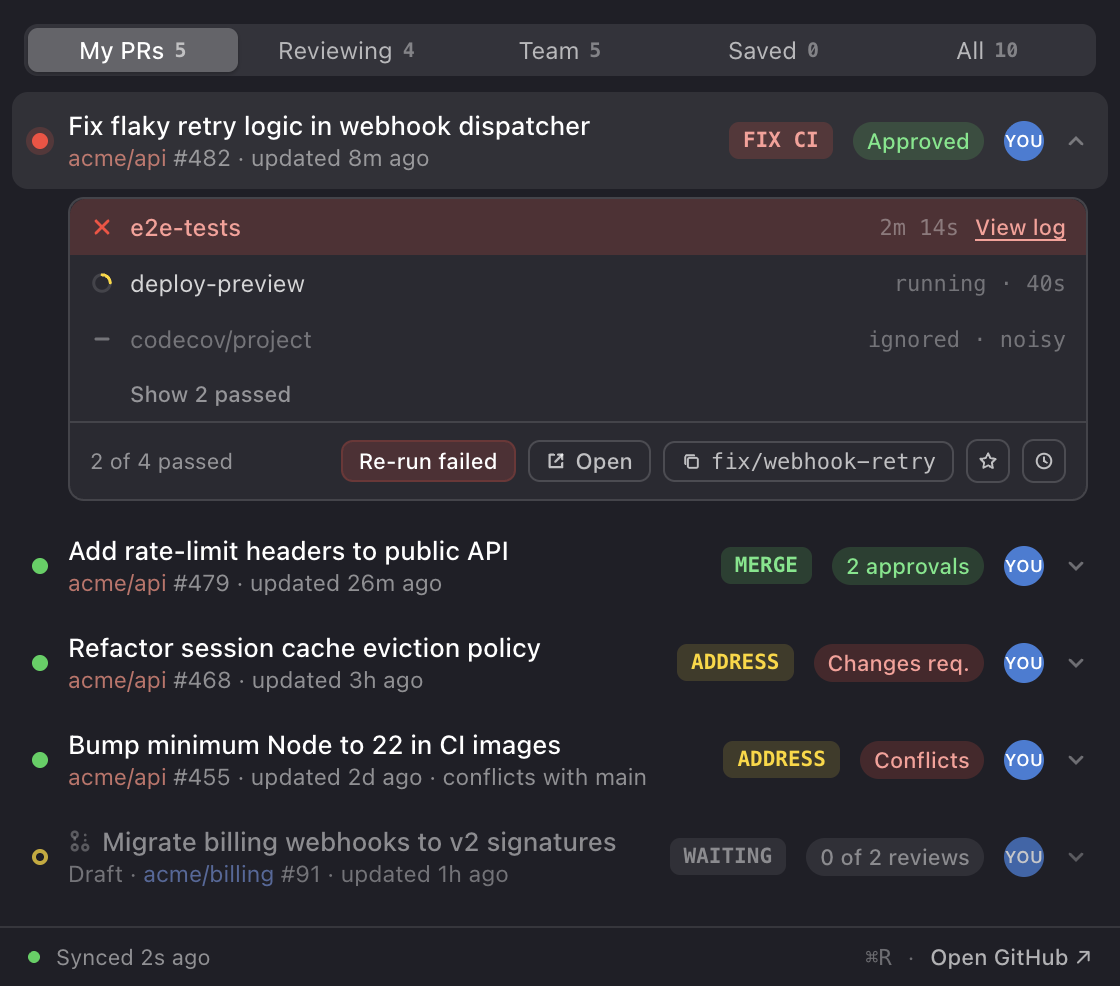
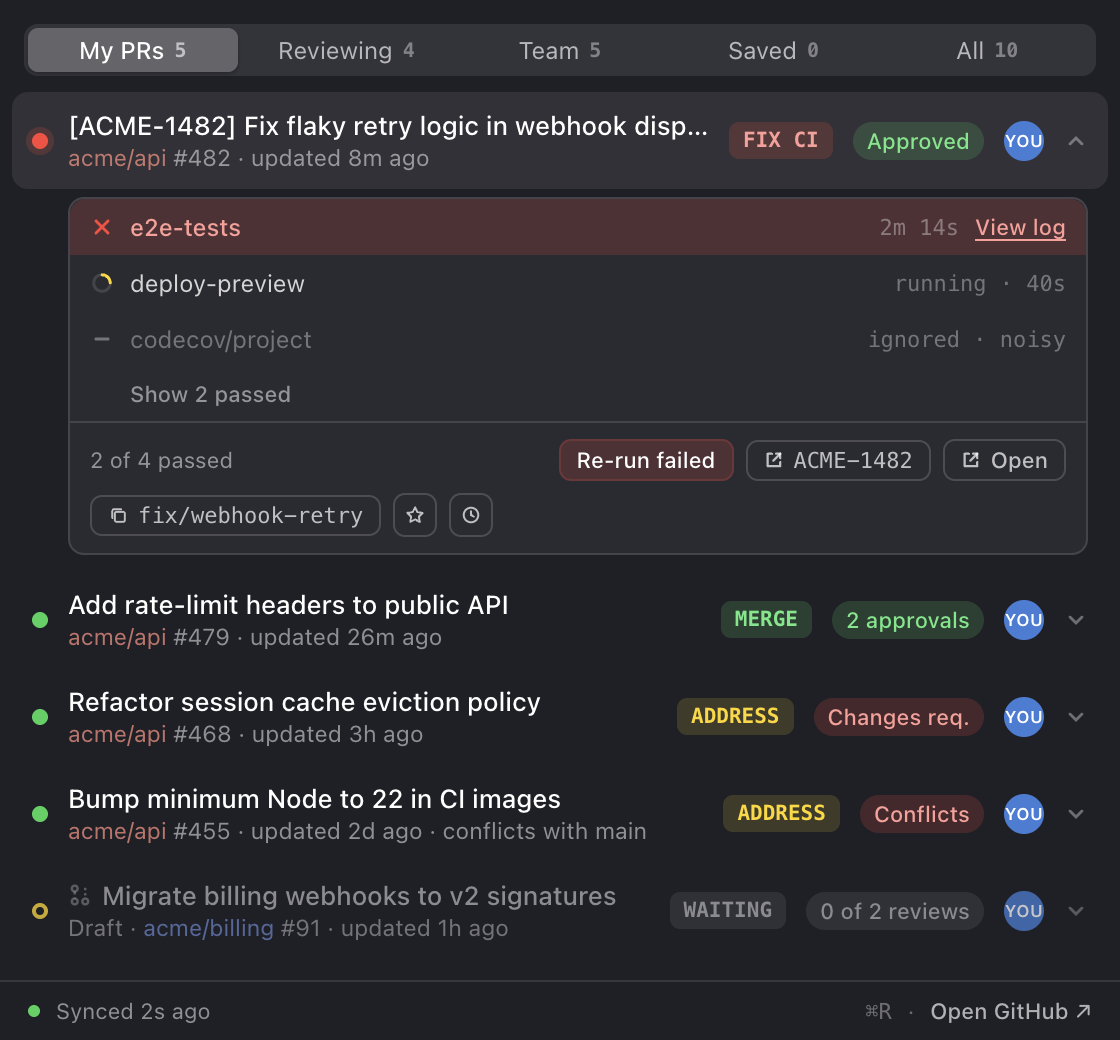
Add Jira ticket links from PR titles
Settings takes a Jira base URL; titles containing a ticket key get a
button in the expanded row opening base + KEY. Bracketed keys ([cfe-3369])
match any case; bare keys must be uppercase (CFE-3353) and not a known
tech acronym, so UTF-8 / SHA-256 / react-19 never link. First match wins,
normalized uppercase. v0.4.0.

diff --git a/src/shared/__tests__/jira.test.ts b/src/shared/__tests__/jira.test.ts
@@ -1,0 +1,42 @@
+import { describe, expect, it } from 'vitest'
+import { jiraTicketFrom, jiraUrl } from '../jira'
+
+describe('jiraTicketFrom', () => {
+  it.each([
+    ['[CFE-3369] Authentication refresh', 'CFE-3369'],
+    ['bugfix/[CFE-3310] Dynamic Variables', 'CFE-3310'],
+    ['CFE-3353 - Guard against phantom deps', 'CFE-3353'], // bare, uppercase
+    ['refactor/[WIN-3879] Autocomplete nav', 'WIN-3879'],
+    ['[win-3879] lowercase but bracketed', 'WIN-3879'],
+    ['[ Platform-42 ] longer keys, stray spaces', 'PLATFORM-42'],
+    ['ABC-123456 six digit ticket', 'ABC-123456'],
+    ['[WIN-3478 | WIN-3915] Custom Field Select', 'WIN-3478'], // first wins
+    ['chore: bump deps (JIRA-1)', 'JIRA-1'],
+    ['prefer [CFE-9] over bare ABC-1 mentions', 'CFE-9'] // brackets are the deliberate tag
+  ])('%s → %s', (title, ticket) => {
+    expect(jiraTicketFrom(title)).toBe(ticket)
+  })
+
+  it.each([
+    ['Persist rotated devise tokens at rest'], // nothing ticket-shaped
+    ['Support UTF-8 everywhere'], // famous acronym
+    ['SHA-256 hashing everywhere'],
+    ['fix win-3879 keyboard nav'], // bare + lowercase: indistinguishable from react-19
+    ['upgrade react-19 and vue-3'],
+    ['release-2024 rollup'],
+    ['upgrade x-1 widget'], // single-letter prefix
+    ['feature/rb 3640 dashboard component'], // space, not a dash
+    ['part ABC-1234567 has too many digits']
+  ])('no match: %s', (title) => {
+    expect(jiraTicketFrom(title)).toBeNull()
+  })
+
+  it('builds the URL from base + ticket, tolerating trailing slashes', () => {
+    expect(jiraUrl('https://acme.atlassian.net/browse/', 'CFE-1')).toBe(
+      'https://acme.atlassian.net/browse/CFE-1'
+    )
+    expect(jiraUrl('https://acme.atlassian.net/browse', 'CFE-1')).toBe(
+      'https://acme.atlassian.net/browse/CFE-1'
+    )
+  })
+})

diff --git a/src/shared/jira.ts b/src/shared/jira.ts
@@ -1,0 +1,28 @@
+/**
+ * Best-effort Jira ticket extraction from PR titles.
+ *
+ * Convention is "[XX-1234] Title" but reality is looser: brackets go missing,
+ * project keys vary in length and case, digit counts vary. To avoid linking
+ * "UTF-8" or "react-19" to Jira:
+ * - bracketed keys ([cfe-3369]) match in any case — brackets are deliberate
+ * - bare keys must be UPPERCASE (CFE-3353) and not a well-known tech acronym
+ * First match wins; keys normalize to uppercase.
+ */
+const BRACKETED = /\[\s*([A-Za-z]{2,10})-(\d{1,6})(?:[^\]]*)\]/
+const BARE = /(?:^|[^A-Za-z0-9])([A-Z]{2,10})-(\d{1,6})(?![A-Za-z0-9])/
+const NOISE = new Set([
+  'UTF', 'SHA', 'MD', 'ISO', 'RFC', 'AES', 'RSA', 'TLS', 'SSL',
+  'HTTP', 'HTTPS', 'ES', 'CVE', 'IPV', 'OAUTH', 'GPT'
+])
+
+export function jiraTicketFrom(title: string): string | null {
+  const bracketed = BRACKETED.exec(title)
+  if (bracketed) return `${bracketed[1].toUpperCase()}-${bracketed[2]}`
+  const bare = BARE.exec(title)
+  if (bare && !NOISE.has(bare[1])) return `${bare[1]}-${bare[2]}`
+  return null
+}
+
+export function jiraUrl(baseUrl: string, ticket: string): string {
+  return `${baseUrl.replace(/\/+$/, '')}/${ticket}`
+}

diff --git a/src/renderer/src/components/PRRow.tsx b/src/renderer/src/components/PRRow.tsx
@@ -1,5 +1,6 @@
 import { useState, type JSX, type MouseEvent } from 'react'
 import type { ClassifiedCheck, PRSnapshot, SnoozeMode } from '../../../shared/types'
+import { jiraTicketFrom } from '../../../shared/jira'
 import { behindSince, metaContext, pillFor, relativeShort, repoTint } from '../../../shared/present'
 import { Avatar } from './Avatar'
 import {
@@ -20,6 +21,7 @@ export interface RowActions {
   toggleExpand: (key: string) => void
   toggleRepoFocus: (repo: string) => void
   openPr: (key: string) => void
+  openJira: (key: string) => void
   openLog: (key: string, check: string) => void
   rerunFailed: (key: string) => void
   copyBranch: (pr: PRSnapshot) => void
@@ -39,6 +41,7 @@ export function PRRow({
   hideChip,
   timeBadge,
   repoFocused,
+  jiraEnabled,
   actions
 }: {
   pr: PRSnapshot
@@ -52,6 +55,8 @@ export function PRRow({
    *  how long this has been waiting instead */
   timeBadge: boolean
   repoFocused: boolean
+  /** Settings → Jira base URL; '' hides ticket buttons */
+  jiraEnabled: boolean
   actions: RowActions
 }): JSX.Element {
   const pill = pillFor(pr)
@@ -116,6 +121,7 @@ export function PRRow({
           pr={pr}
           starred={starred}
           snoozeMenuOpen={snoozeMenuOpen}
+          jiraEnabled={jiraEnabled}
           actions={actions}
         />
       )}
@@ -139,13 +145,16 @@ function ExpandedPanel({
   pr,
   starred,
   snoozeMenuOpen,
+  jiraEnabled,
   actions
 }: {
   pr: PRSnapshot
   starred: boolean
   snoozeMenuOpen: boolean
+  jiraEnabled: boolean
   actions: RowActions
 }): JSX.Element {
+  const jiraTicket = jiraEnabled ? jiraTicketFrom(pr.title) : null
   // big CI pipelines drown the signal — passed checks collapse behind a toggle
   const [showPassed, setShowPassed] = useState(false)
 
@@ -193,6 +202,16 @@ function ExpandedPanel({
         {hasFail && (
           <button className="btn rerun" onClick={stop(() => actions.rerunFailed(pr.key))}>
             Re-run failed
+          </button>
+        )}
+        {jiraTicket && (
+          <button
+            className="btn mono"
+            title="Open in Jira"
+            onClick={stop(() => actions.openJira(pr.key))}
+          >
+            <ExtLinkIcon />
+            {jiraTicket}
           </button>
         )}
         <button className="btn" onClick={stop(() => actions.openPr(pr.key))}>

diff --git a/src/renderer/src/settings/SettingsApp.tsx b/src/renderer/src/settings/SettingsApp.tsx
@@ -53,6 +53,22 @@ export default function SettingsApp(): JSX.Element {
         />
       </Section>
 
+      <Section
+        title="Jira"
+        hint="When a PR title contains a ticket like [CFE-1234] (or bare CFE-1234), the expanded row links it: base URL + ticket. Leave empty to disable."
+      >
+        <div className="add-row">
+          <input
+            placeholder="https://yourcompany.atlassian.net/browse"
+            defaultValue={settings.jiraBaseUrl}
+            onBlur={(e) => patch({ jiraBaseUrl: e.target.value.trim() })}
+            onKeyDown={(e) => {
+              if (e.key === 'Enter') (e.target as HTMLInputElement).blur()
+            }}
+          />
+        </div>
+      </Section>
+
       <Section title="Notifications">
         {(
           [

diff --git a/src/main/ipcHandlers.ts b/src/main/ipcHandlers.ts
@@ -1,5 +1,6 @@
 import { ipcMain, shell } from 'electron'
 import { activityFingerprint, snoozeUntil } from '../shared/fingerprint'
+import { jiraTicketFrom, jiraUrl } from '../shared/jira'
 import { CHANNELS } from '../shared/ipc'
 import type { Settings, SnoozeMode } from '../shared/types'
 import type { Coordinator } from './coordinator'
@@ -37,6 +38,14 @@ export function registerIpcHandlers(deps: {
   ipcMain.handle(CHANNELS.rerunFailed, (_e, key: string) => deps.rerunFailed(key))
 
   ipcMain.handle(CHANNELS.openGithub, () => void shell.openExternal('https://github.com/pulls'))
+
+  ipcMain.handle(CHANNELS.openJira, (_e, key: string) => {
+    const p = pr(key)
+    const base = store.get('settings').jiraBaseUrl.trim()
+    if (!p || !base) return
+    const ticket = jiraTicketFrom(p.title)
+    if (ticket) void shell.openExternal(jiraUrl(base, ticket))
+  })
 
   ipcMain.handle(CHANNELS.setStar, (_e, key: string, on: boolean) => {
     const cur = store.get('starred')

diff --git a/src/shared/mockData.ts b/src/shared/mockData.ts
@@ -24,7 +24,8 @@ export const MOCK_SETTINGS: Settings = {
   ...DEFAULT_SETTINGS,
   repos: ['acme/api', 'acme/web', 'acme/auth', 'acme/billing'],
   teamUsernames: ['mkatz', 'dvest', 'alind', 'rsoto'],
-  noisyPatterns: [{ pattern: 'codecov/*' }]
+  noisyPatterns: [{ pattern: 'codecov/*' }],
+  jiraBaseUrl: 'https://acme.atlassian.net/browse'
 }
 
 interface MockSpec {
@@ -56,7 +57,7 @@ interface MockSpec {
  *  classify/next-action logic derives the chips, dots, and pills. */
 const SPECS: MockSpec[] = [
   {
-    repo: 'acme/api', number: 482, title: 'Fix flaky retry logic in webhook dispatcher',
+    repo: 'acme/api', number: 482, title: '[ACME-1482] Fix flaky retry logic in webhook dispatcher',
     branch: 'fix/webhook-retry', author: MOCK_VIEWER, buckets: ['my'], updatedMin: 8,
     reviewDecision: 'APPROVED', approvals: 1, commentCount: 4, reviewCount: 2, lastCommitMin: 12,
     checks: [

diff --git a/src/shared/types.ts b/src/shared/types.ts
@@ -124,6 +124,8 @@ export interface Settings {
   theme: ThemePreference
   /** Electron accelerator that toggles the popover, e.g. "Cmd+Shift+P"; '' = off */
   globalShortcut: string
+  /** e.g. "https://acme.atlassian.net/browse" — '' disables Jira links */
+  jiraBaseUrl: string
 }
 
 export const DEFAULT_SETTINGS: Settings = {
@@ -134,7 +136,8 @@ export const DEFAULT_SETTINGS: Settings = {
   badgeEnabled: true,
   launchAtLogin: false,
   theme: 'system',
-  globalShortcut: ''
+  globalShortcut: '',
+  jiraBaseUrl: ''
 }
 
 export interface PrNotifState {

diff --git a/src/renderer/src/components/PRList.tsx b/src/renderer/src/components/PRList.tsx
@@ -19,6 +19,7 @@ export function PRList({
   showSnoozed,
   expandedKey,
   snoozeMenuKey,
+  jiraEnabled,
   actions
 }: {
   tab: TabId
@@ -27,6 +28,7 @@ export function PRList({
   showSnoozed: boolean
   expandedKey: string | null
   snoozeMenuKey: string | null
+  jiraEnabled: boolean
   actions: RowActions
 }): JSX.Element {
   const render = (pr: PRSnapshot): JSX.Element => (
@@ -41,6 +43,7 @@ export function PRList({
       hideChip={tab === 'all'}
       timeBadge={tab === 'rev'}
       repoFocused={ctx.repoFocus === pr.repo}
+      jiraEnabled={jiraEnabled}
       actions={actions}
     />
   )

diff --git a/src/shared/ipc.ts b/src/shared/ipc.ts
@@ -33,6 +33,8 @@ export interface Invokers {
   setSettings(patch: Partial<Settings>): Promise<void>
   openSettingsWindow(): Promise<void>
   recheckAuth(): Promise<boolean>
+  /** Open the Jira ticket for a PR (main validates against jiraBaseUrl). */
+  openJira(prKey: string): Promise<void>
   /** Ask the popover window to match the content's natural height. */
   resizePopover(height: number): Promise<void>
 }
@@ -64,6 +66,7 @@ export const CHANNELS = {
   setSettings: 'settings:set',
   openSettingsWindow: 'settings:openWindow',
   recheckAuth: 'auth:recheck',
+  openJira: 'pr:openJira',
   resizePopover: 'popover:resize',
   dataUpdated: 'data:updated',
   popoverShown: 'popover:shown'

diff --git a/src/renderer/src/App.tsx b/src/renderer/src/App.tsx
@@ -108,6 +108,7 @@ export default function App(): JSX.Element {
       },
       toggleRepoFocus: (repo) => setRepoFocus((cur) => (cur === repo ? null : repo)),
       openPr: (key) => void api.openPr(key),
+      openJira: (key) => void api.openJira(key),
       openLog: (key, check) => void api.openLog(key, check),
       rerunFailed: (key) => {
         void api.rerunFailed(key)
@@ -194,6 +195,7 @@ export default function App(): JSX.Element {
         showSnoozed={showSnoozed}
         expandedKey={expandedKey}
         snoozeMenuKey={snoozeMenuKey}
+        jiraEnabled={state.settings.jiraBaseUrl.trim() !== ''}
         actions={actions}
       />
       {tab === 'team' && (

diff --git a/src/preload/index.ts b/src/preload/index.ts
@@ -19,6 +19,7 @@ const api: RendererApi = {
   setSettings: (patch: Partial<Settings>) => ipcRenderer.invoke(CHANNELS.setSettings, patch),
   openSettingsWindow: () => ipcRenderer.invoke(CHANNELS.openSettingsWindow),
   recheckAuth: () => ipcRenderer.invoke(CHANNELS.recheckAuth),
+  openJira: (prKey: string) => ipcRenderer.invoke(CHANNELS.openJira, prKey),
   resizePopover: (height: number) => ipcRenderer.invoke(CHANNELS.resizePopover, height),
   onDataUpdated: (cb: (state: AppState) => void) => {
     const listener = (_e: Electron.IpcRendererEvent, state: AppState): void => cb(state)

diff --git a/src/renderer/src/lib/api.ts b/src/renderer/src/lib/api.ts
@@ -76,6 +76,7 @@ function createMockApi(): RendererApi {
     },
     openSettingsWindow: async () => console.log('[mock] open settings'),
     recheckAuth: async () => true,
+    openJira: async (key) => console.log('[mock] open jira for', key),
     resizePopover: async () => {},
     onDataUpdated: (cb) => {
       listeners.push(cb)